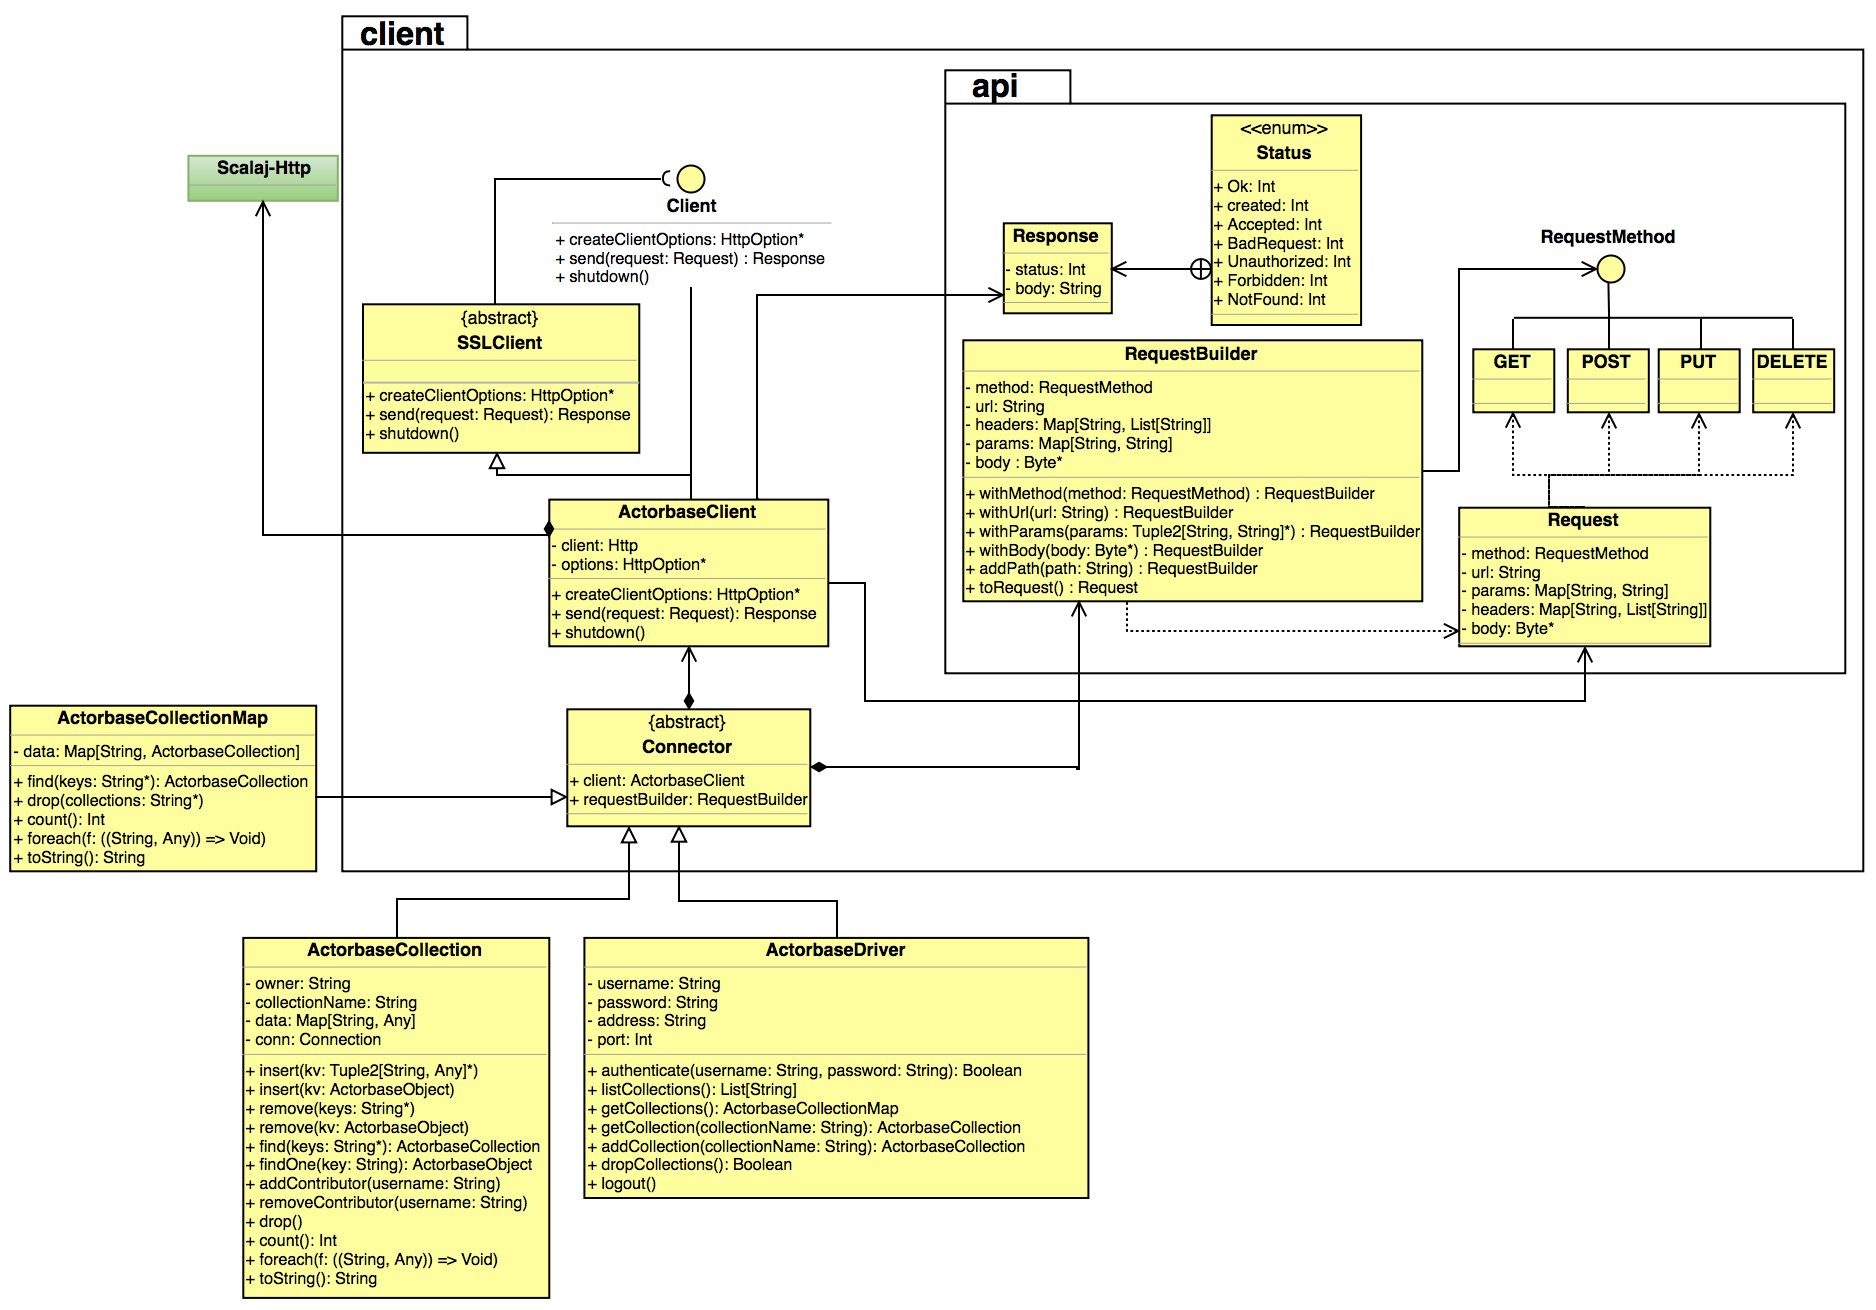
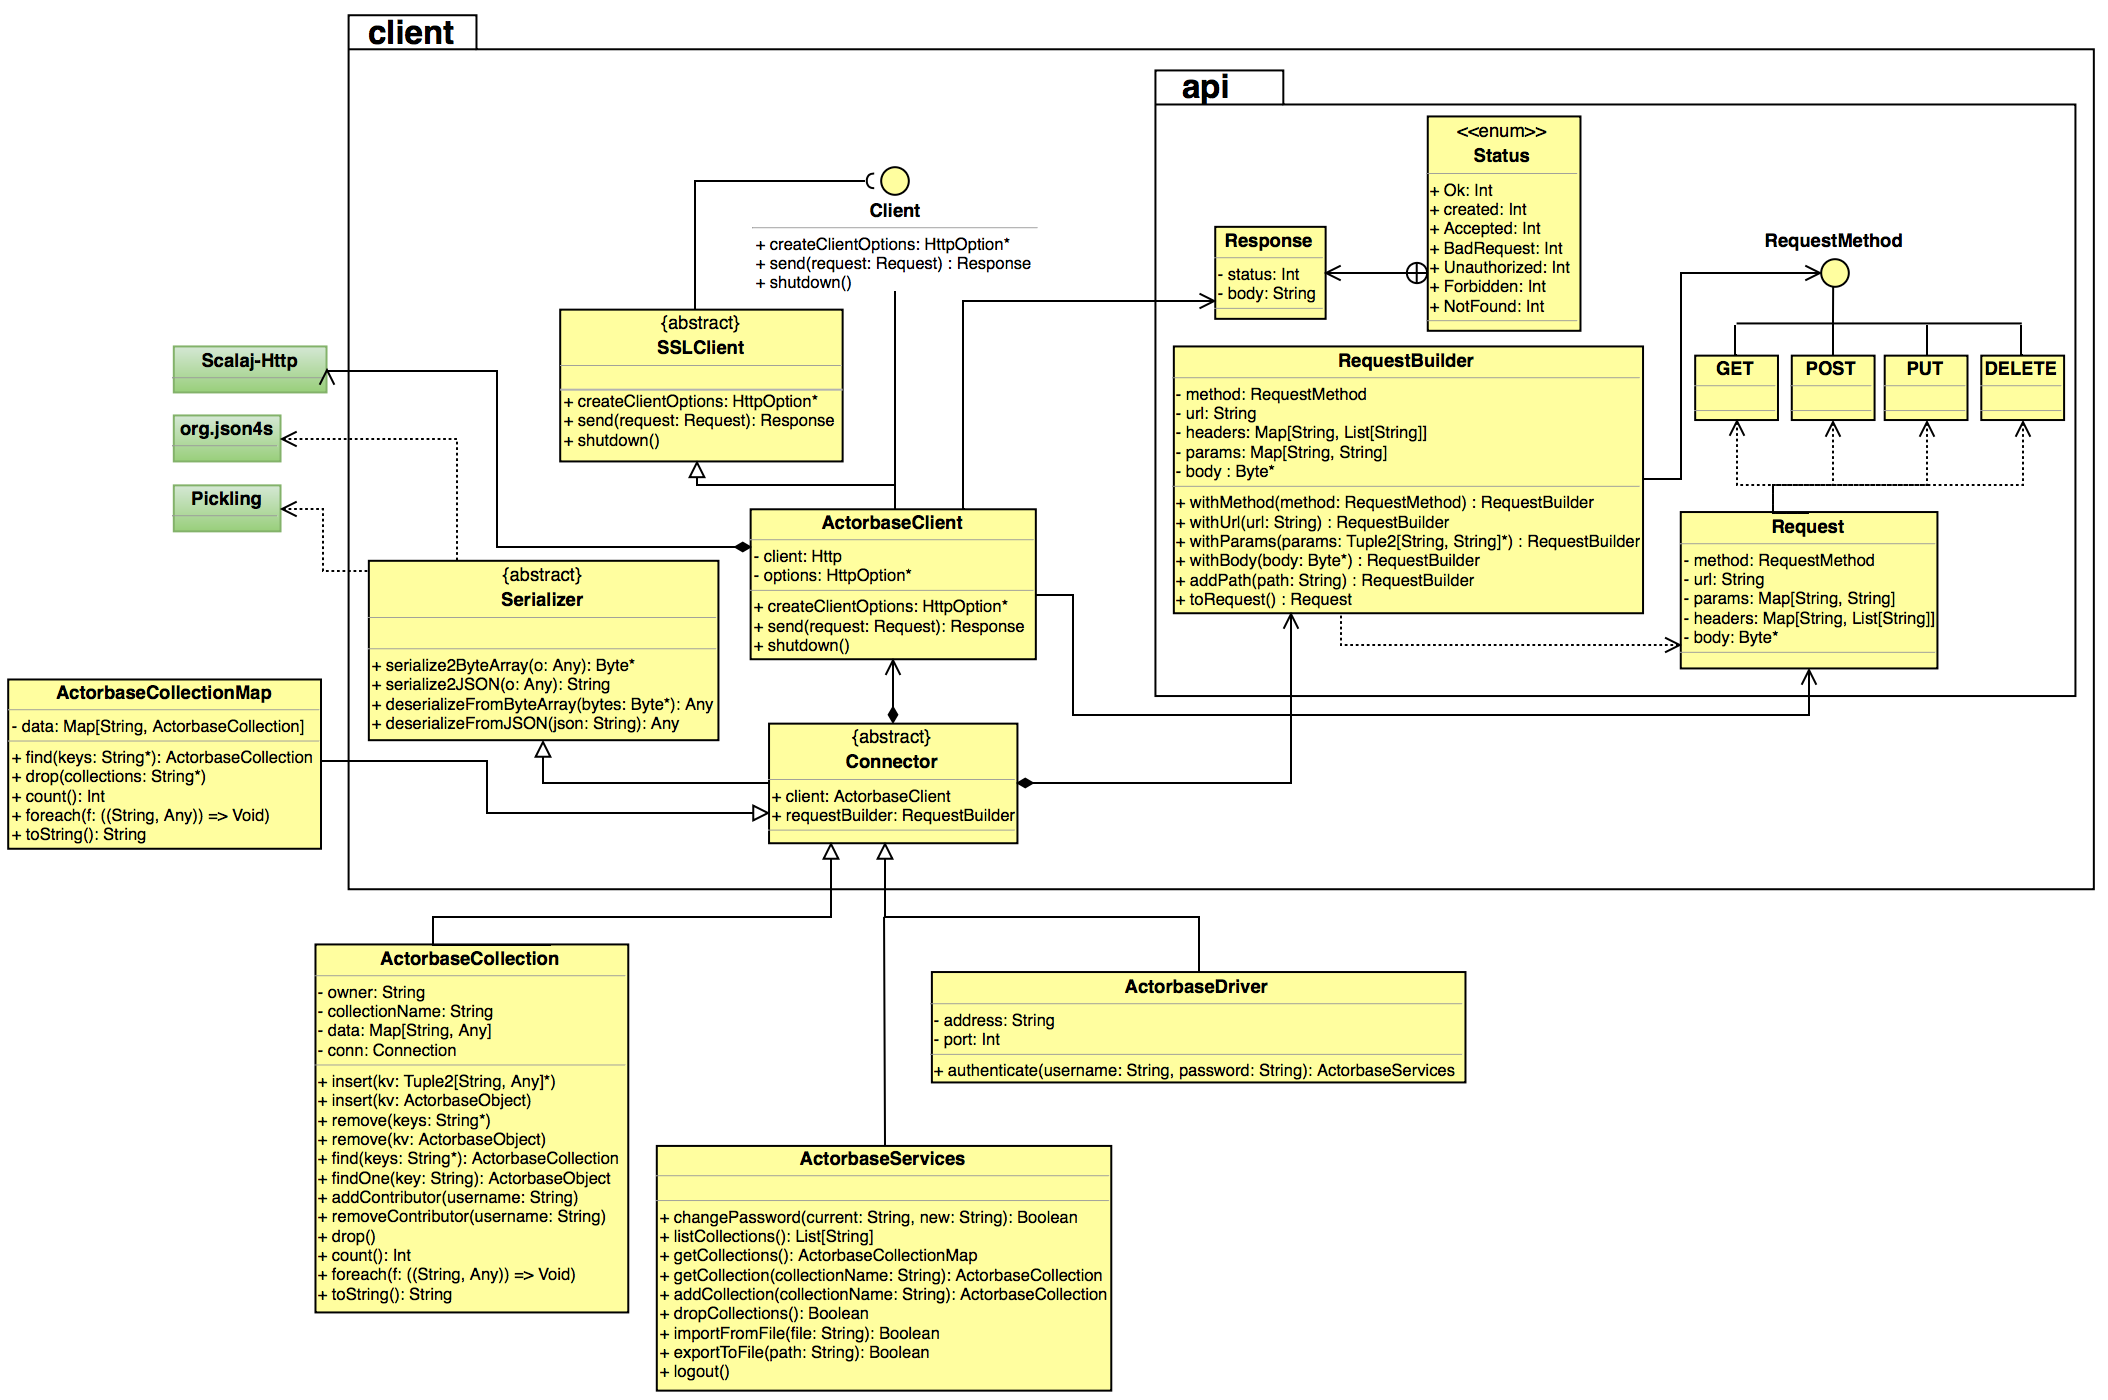
io sono LO storefinder - la Vendetta

diff --git a/RQ/Esterni/DefinizioneDiProdotto_v1.0.0.tex b/RQ/Esterni/DefinizioneDiProdotto_v1.0.0.tex
@@ -170,7 +170,7 @@ Rappresentano le tre macro-componenti del sistema.
 
 \begin{figure}[H]
   \begin{center}
-    \includegraphics[width=0.9\textwidth,keepaspectratio]{RP/Actorsystem.png}
+    \includegraphics[width=0.9\textwidth,keepaspectratio]{RQ/Actorsystem.png}
     \caption{Actorsystem, visione generale}
   \end{center}
 \end{figure}
@@ -192,18 +192,18 @@ rappresentano il \gloss{server}.
 \item \hyperref[sec:actorbase::actorsystem::warehouseman]{actorbase::actorsystem::warehouseman};
 \item \hyperref[sec:actorbase::actorsystem::manager]{actorbase::actorsystem::manager};
 \item \hyperref[sec:actorbase::actorsystem::main]{actorbase::actorsystem::main};
-\item \hyperref[sec:actorbase::actorsystem::serialization]{actorbase::actorsystem::utils}.
+\item \hyperref[sec:actorbase::actorsystem::utils]{actorbase::actorsystem::utils}.
 \end{itemize}
 
 \subsection{actorbase::actorsystem::utils}
 \label{sec:actorbase::actorsystem::utils}
 
-% \begin{figure}[H] %TODO aggiungere immagine
-%   \begin{center}
-%     \includegraphics[width=1.0\textwidth,keepaspectratio]{RP/utils.png}
-%     \caption{Package actorsystem::utils}
-%   \end{center}
-% \end{figure}
+\begin{figure}[H] %TODO aggiungere immagine
+   \begin{center}
+     \includegraphics[width=1.0\textwidth,keepaspectratio]{RQ/utils.png}
+     \caption{Package actorsystem::utils}
+   \end{center}
+ \end{figure}
 
 \subsubsection{Descrizione}
 \gloss{Package} contenente diverse classi di utilità.
@@ -490,7 +490,7 @@ getter e un meotodo per il confronto con un altro oggetto ActorbaseCollection.
 
 \begin{figure}[H]
   \begin{center}
-    \includegraphics[width=1.0\textwidth,keepaspectratio]{RP/Clientactor.png}
+    \includegraphics[width=1.0\textwidth,keepaspectratio]{RQ/Clientactor.png}
     \caption{Clientactor e interazioni con main e package serialization}
   \end{center}
 \end{figure}
@@ -825,7 +825,7 @@ mandato a \hyperref[sec:actorbase::driver::client::ActorbaseClient]{actorbase::d
 
 \begin{figure}[H]
   \begin{center}
-    \includegraphics[width=0.5\textwidth,keepaspectratio]{RP/tcpserver.png} % TODO IMMAGINE DA INSERIRE E DA CREARE PERCHE' E' BELLO COSì
+    \includegraphics[width=0.5\textwidth,keepaspectratio]{RQ/httpserver.png} % TODO IMMAGINE DA INSERIRE E DA CREARE PERCHE' E' BELLO COSì
     \caption{httpserver, visione generale del package}
   \end{center}
 \end{figure}
@@ -909,7 +909,7 @@ ssl.
 
 \begin{figure}[H]
   \begin{center}
-    \includegraphics[width=1.0\textwidth,keepaspectratio]{RP/Warehouseman.png}
+    \includegraphics[width=1.0\textwidth,keepaspectratio]{RQ/Warehouseman.png}
     \caption{Warehouseman e interazioni con main e serialization}
   \end{center}
 \end{figure}
@@ -1091,7 +1091,7 @@ riceve questo messaggio leggerà i dati da disco sfruttando
 
 \begin{figure}[H]
   \begin{center}
-    \includegraphics[width=0.8\textwidth,keepaspectratio]{RP/Main.png}
+    \includegraphics[width=0.8\textwidth,keepaspectratio]{RQ/Main.png}
     \caption{Package dell'attore di tipo Main}
   \end{center}
 \end{figure}
@@ -1491,12 +1491,12 @@ riceve questo messaggio provvederà ad inoltrare allo \hyperref[sec:actorbase::a
 \subsection{actorbase::actorsystem::userfinder} %TODO da fare qualcosa, tipo l'immagine
 \label{sec:actorbase::actorsystem::userfinder}
 
-% \begin{figure}[H]
-%   \begin{center}
-%     \includegraphics[width=0.8\textwidth,keepaspectratio]{RP/userfinder.png}
-%     \caption{Userfinder, visione generale del package}
-%   \end{center}
-% \end{figure}
+\begin{figure}[H]
+   \begin{center}
+     \includegraphics[width=0.8\textwidth,keepaspectratio]{RQ/userfinder.png}
+     \caption{Userfinder, visione generale del package}
+   \end{center}
+ \end{figure}
 
 \subsubsection{Descrizione}
 Classe che rappresenta un \gloss{attore} di tipo \gloss{Userfinder}.
@@ -1716,7 +1716,7 @@ riceve questo messaggio provvederà ad inoltrare all'attore di tipo
 
 \begin{figure}[H]
   \begin{center}
-    \includegraphics[width=0.8\textwidth,keepaspectratio]{RP/userkeeper.png}
+    \includegraphics[width=0.8\textwidth,keepaspectratio]{RQ/userkeeper.png}
     \caption{Userkeeper, visione generale del package}
   \end{center}
 \end{figure}
@@ -1958,7 +1958,7 @@ nella collezione.
 
 \begin{figure}[H]
   \begin{center}
-    \includegraphics[width=0.8\textwidth,keepaspectratio]{RP/Storefinder.png}
+    \includegraphics[width=0.8\textwidth,keepaspectratio]{RQ/Storefinder.png}
     \caption{Storefinder e interazioni con main}
   \end{center}
 \end{figure}
@@ -2203,7 +2203,7 @@ riceve questo messaggio non farà altro che richiamare il metodo
 
 \begin{figure}[H]
   \begin{center}
-    \includegraphics[width=0.8\textwidth,keepaspectratio]{RP/Storekeeper.png}
+    \includegraphics[width=0.8\textwidth,keepaspectratio]{RQ/Storekeeper.png}
     \caption{Storekeeper e interazioni con ninja}
   \end{center}
 \end{figure}
@@ -2464,7 +2464,7 @@ per il salvataggio dei propri dati su disco.
 
 \begin{figure}[H]
   \begin{center}
-    \includegraphics[width=0.8\textwidth,keepaspectratio]{RP/manager.png}
+    \includegraphics[width=0.8\textwidth,keepaspectratio]{RQ/manager.png}
     \caption{Manager, visione generale del package}
   \end{center}
 \end{figure}
@@ -2705,8 +2705,8 @@ profilo nel sistema.
 
 \begin{figure}[H]
   \begin{center}
-    \includegraphics[width=1.0\textwidth,keepaspectratio]{RQ/ActorbaseDriver.png}
-    \caption{Driver: Classe ActorbaseDriver}
+    \includegraphics[width=1.0\textwidth,keepaspectratio]{RQ/ActorbaseServices.png}
+    \caption{Driver: Classe ActorbaseServices}
   \end{center}
 \end{figure}
 
@@ -2823,8 +2823,8 @@ remoti all'interno del \gloss{database}.
 
 \begin{figure}[H]
   \begin{center}
-    \includegraphics[width=1.0\textwidth,keepaspectratio]{RQ/ActorbaseDriver.png}
-    \caption{Driver: Classe ActorbaseDriver}
+    \includegraphics[width=1.0\textwidth,keepaspectratio]{RQ/ActorbaseAdminServices.png}
+    \caption{Driver: Classe ActorbaseAdminServices}
   \end{center}
 \end{figure}
 
@@ -4056,7 +4056,7 @@ Questa classe viene utilizzata per la rappresentazione dell'aggregazione di
 
 \begin{figure}[H]
   \begin{center}
-    \includegraphics[width=0.7\textwidth,keepaspectratio]{RP/exceptions.png}
+    \includegraphics[width=0.7\textwidth,keepaspectratio]{RP/Exceptions.png}
     \caption{Driver:Package exceptions}
   \end{center}
 \end{figure}
